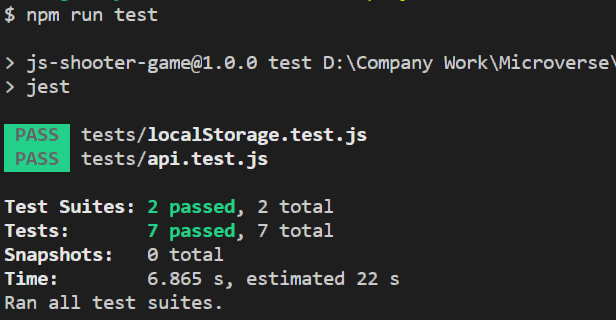
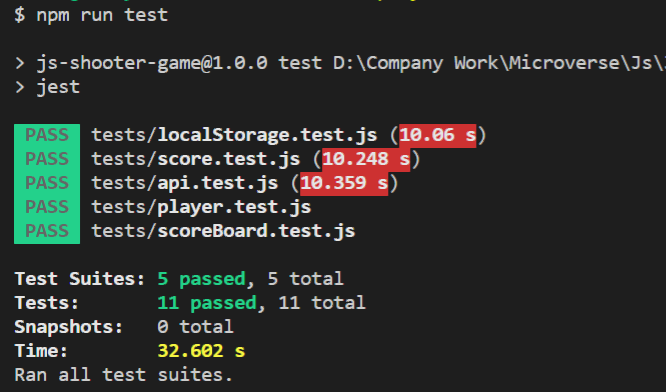
added more unit test

Changed region(s): [[0.0, 0.125, 1.0, 0.9688], [0.0, 0.0, 0.2776, 0.0938]]

diff --git a/tests/score.test.js b/tests/score.test.js
@@ -1,17 +1,17 @@
-import API from "../src/Objects/api";
+import API from '../src/Objects/api';
 
-it("If score is 0, it returns an error", () => {
-  API.postScores("test", 0)
+it('If score is 0, it returns an error', () => {
+  API.postScores('test', 0)
     .then((response) => {
       expect(response).toBe(null);
     })
     .catch((error) => error);
 });
 
-it("Post a new score to database", () => {
-  API.postScores("test", 1)
+it('Post a new score to database', () => {
+  API.postScores('test', 1)
     .then((response) => {
-      expect(response).toBe("Leaderboard score created correctly.");
+      expect(response).toBe('Leaderboard score created correctly.');
     })
     .catch((error) => error);
 });

diff --git a/tests/player.test.js b/tests/player.test.js
@@ -1,6 +1,7 @@
-import API from "../src/Objects/api";
-it("If name is empty, it should not send anything to avoid an error", () => {
-  API.postScores("", 0)
+import API from '../src/Objects/api';
+
+it('If name is empty, it should not send anything to avoid an error', () => {
+  API.postScores('', 0)
     .then((response) => {
       expect(response).toBe(null);
     })

diff --git a/tests/scoreBoard.test.js b/tests/scoreBoard.test.js
@@ -1,9 +1,9 @@
-import API from "../src/Objects/api";
+import API from '../src/Objects/api';
 
-it("Retrieves the scores from the DB", () => {
+it('Retrieves the scores from the DB', () => {
   API.getScores()
     .then((response) => {
-      expect(response).toBe("Succeed");
+      expect(response).toBe('Succeed');
     })
     .catch((error) => error);
 });
